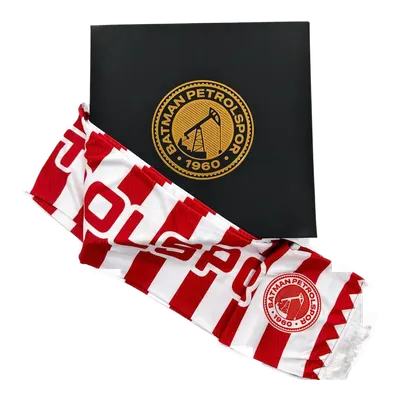
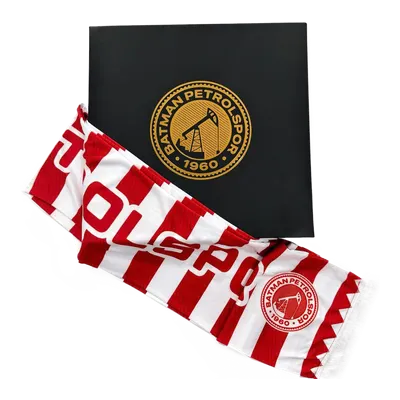
Mağaza: atkı fotoğrafını temizle, kullanılmayan dosyayı kaldır
- Atkı (p33) fotoğrafı elle verilen dış çizgiyle yeniden kesildi: çevresindeki köşeli beyaz bloklar gitti, püsküller yumuşak bir bant oldu (mobil ve web kopyaları).
- Kullanılmayan TabPlaceholder bileşeni silindi.
- Ar-Ge dokümanında Faz 1 maddeleri tamamlandı olarak işaretlendi.

diff --git a/BATMAN_PETROLSPOR_MASTER_ARGE_DOKUMANI.md b/BATMAN_PETROLSPOR_MASTER_ARGE_DOKUMANI.md
@@ -265,12 +265,14 @@ petrolspor/
 # BÖLÜM 7: AR-GE SONRASI GELİŞTİRME YOL HARİTASI (ROADMAP)
 
 ### 🟢 Faz 1: "Yönetime Sunulacak Demo" Sürümü (Prototip)
-* [ ] Kırmızı-Beyaz-Siyah modern tasarım teması (NativeWind).
-* [ ] 4K Duvar Kağıdı Galerisi ve **Kilit Ekranı Canlı Önizleme Simülatörü**.
-* [ ] **İlk 11'ini Kur (Taktik Tahtası)** ve Instagram Story paylaşım kartı üretimi.
-* [ ] **Petrol Kulesi Ses Desibel Ölçeri** görsel demosu.
-* [ ] Canlı Maç Merkezi ve Canlı Puan Tablosu simülasyonu.
-* [ ] **Dijital Anıt Duvarı (Sanal Tribün)** satın alma ve sertifika görseli ekranı.
+* [x] Kırmızı-Beyaz-Siyah modern tasarım teması (NativeWind).
+* [x] 4K Duvar Kağıdı Galerisi ve **Kilit Ekranı Canlı Önizleme Simülatörü**.
+* [x] **İlk 11'ini Kur (Taktik Tahtası)** ve Instagram Story paylaşım kartı üretimi.
+* [x] **Petrol Kulesi Ses Desibel Ölçeri** görsel demosu.
+* [x] Canlı Maç Merkezi ve Canlı Puan Tablosu simülasyonu.
+* [x] **Dijital Anıt Duvarı (Sanal Tribün)** satın alma ve sertifika görseli ekranı.
+
+> Durum (19 Kasım 2026): Faz 1 prototipi tamamlandı; ekran ekran durum ve kararlar 13.1 ve 13.2'dedir.
 
 ### 🟡 Faz 2: Canlı Veri & Yönetim Paneli
 * [ ] Backend API ve PostgreSQL veritabanı kurulumu.
